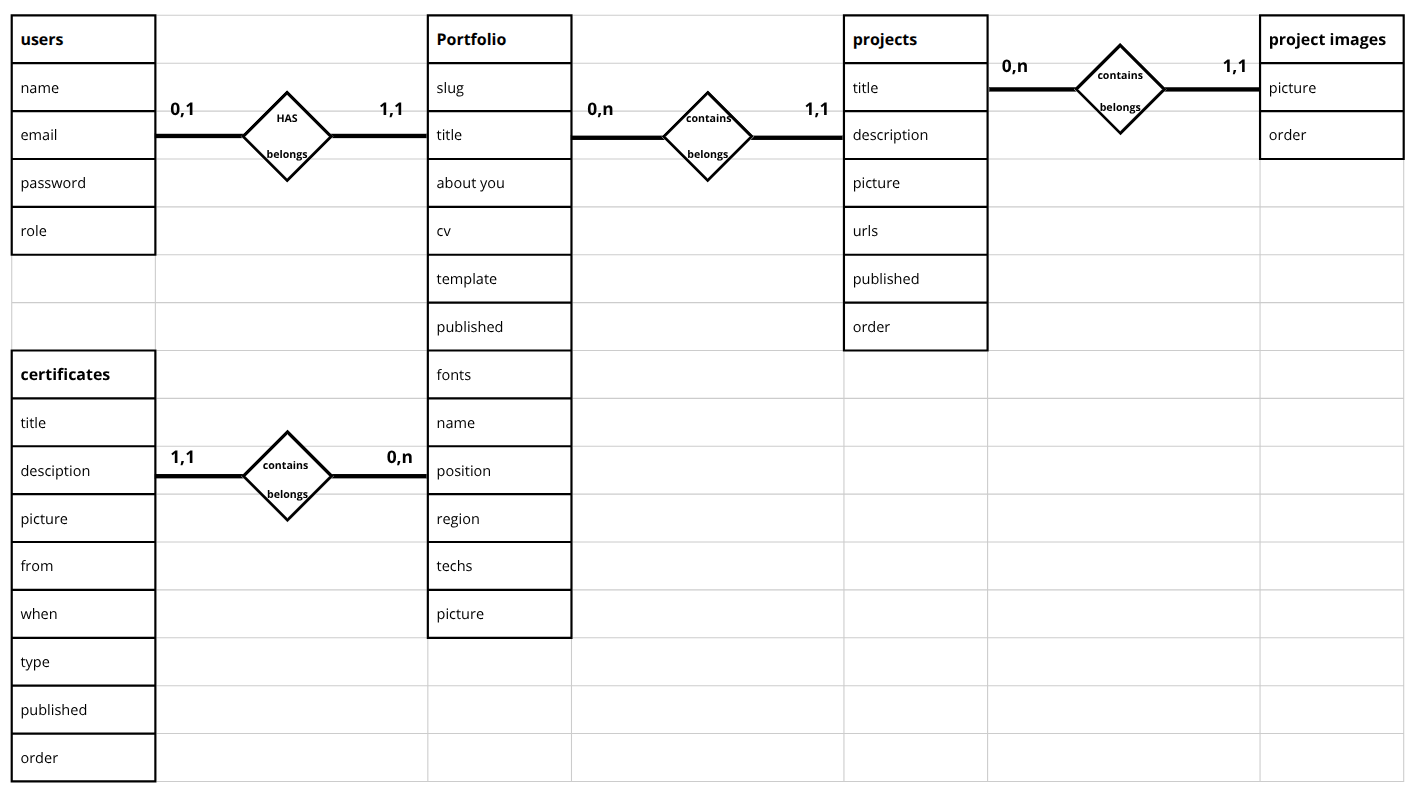
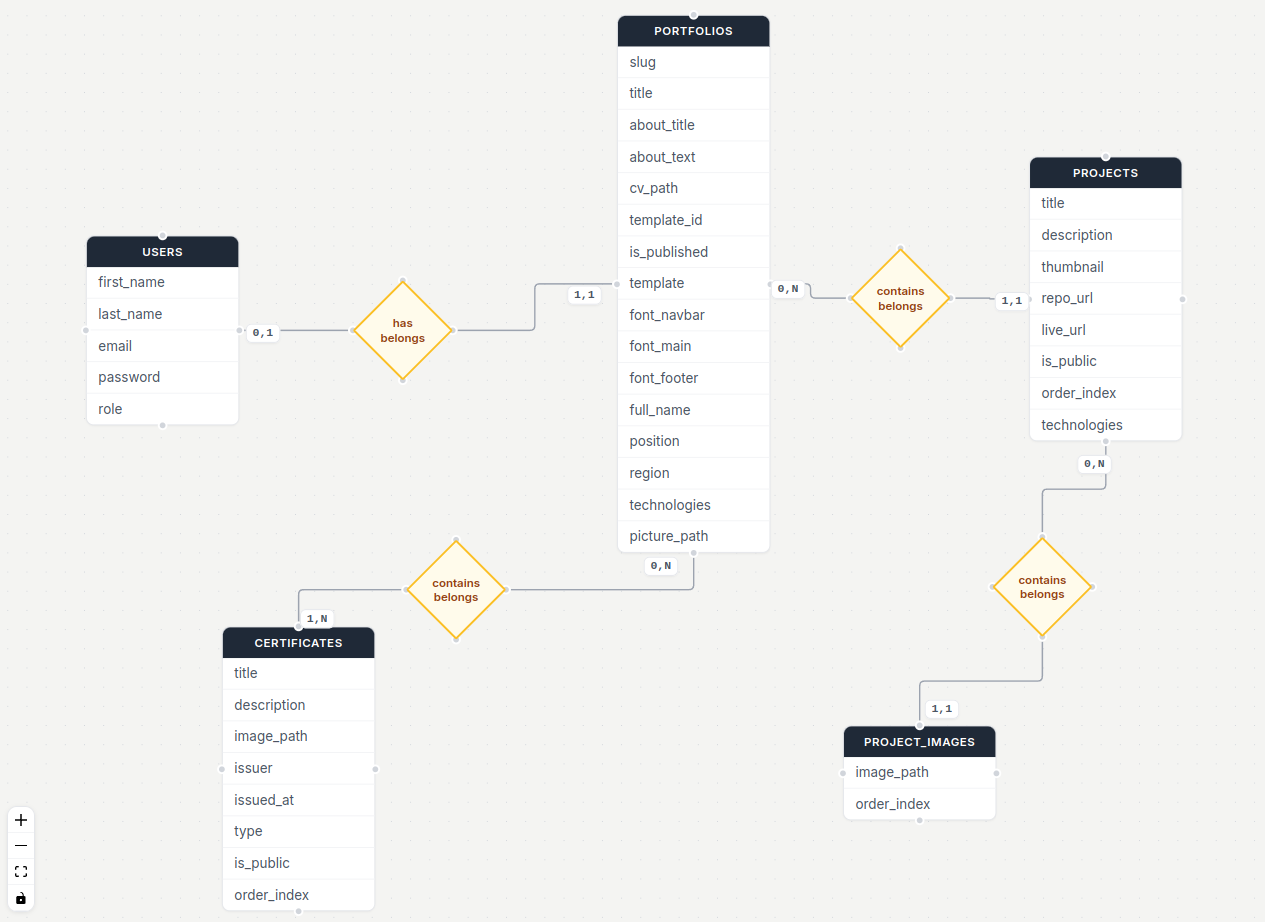
cp 5

diff --git a/src/slides/CP5.3Slide.jsx b/src/slides/CP5.3Slide.jsx
@@ -1,15 +1,35 @@
 import { Slide, Fragment, Code } from '@revealjs/react';
 import { DatabaseZap, FolderOpen } from 'lucide-react';
-import MLD from "../assets/MPD.png"
+import MPD from "../assets/MPD.png"
 
 export default function CP5_3Slide() {
+
+    const notes = `5 tables principales : users, portfolios, projects, project_images, et certificates.
+
+La relation centrale est users → portfolios : un utilisateur peut avoir 1 portfolio. Chaque portfolio contient des projets et des certificats — deux entités indépendantes rattachées au portfolio, pas à l'utilisateur directement.
+
+Les projets ont leur propre galerie via project_images, avec un order_index pour contrôler l'ordre d'affichage manuellement.
+
+Points notables du schéma :
+- Le champ slug dans portfolios permet des URLs propres et personnalisées.
+- Les champs technologies sont stockés en JSON dans projects et portfolios — choix délibéré pour éviter une table de jointure technologies et rester flexible.
+- Les champs font dans portfolios permettent la personnalisation typographique par portfolio.
+- is_published et is_public ont comme valuer 1 ou 0 qui agissent comme booléens — contrôle de visibilité à deux niveaux.
+- Le champ role dans users et type dans certificates utilisent des ENUM — les valeurs sont contraintes côté base.
+- 8 fichiers de migration sequelize `
+
     return (
-        <Slide 
+        <Slide backgroundImage={MPD} backgroundSize="69%" backgroundPosition="center" backgroundRepeat="no-repeat">
             
-            backgroundImage={MLD} backgroundSize="69%" backgroundPosition="center" backgroundRepeat="no-repeat">
+            <div className="flex items-center gap-3 mb-5">
+                <span className="bg-purple-500/20 text-purple-400 border border-purple-400/30 px-3 py-1 rounded-full text-sm font-bold">CP5</span>
+                <p className="text-6xl font-extrabold text-black">MPD</p>
+            </div>
+            <p className='text-sm text-left text-black'>Modèle Physique de Données</p>
             
-            
-            <aside className="notes">8 fichiers de migration pour l'évolution du schéma. Mentionner les foreign keys et les ENUM pour les rôles.</aside>
+            <aside className="notes text-lg">
+                <pre><code>{notes}</code></pre>
+            </aside>
         </Slide>
     );
 }

diff --git a/src/slides/CP5.2Slide.jsx b/src/slides/CP5.2Slide.jsx
@@ -1,6 +1,6 @@
 import { Slide, Fragment, Code } from '@revealjs/react';
 import { DatabaseZap, FolderOpen } from 'lucide-react';
-import MPD from "../assets/MPD.png"
+import MLD from "../assets/MLD.png"
 
 
 export default function CP5_2Slide() {
@@ -20,12 +20,13 @@ Points notables du schéma :
 - 8 fichiers de migration sequelize `
 
     return (
-        <Slide backgroundImage={MPD} backgroundSize="69%" backgroundPosition="center" backgroundRepeat="no-repeat">
+        <Slide backgroundImage={MLD} backgroundSize="69%" backgroundPosition="center" backgroundRepeat="no-repeat">
             
             <div className="flex items-center gap-3 mb-5">
                 <span className="bg-purple-500/20 text-purple-400 border border-purple-400/30 px-3 py-1 rounded-full text-sm font-bold">CP5</span>
-                <h3 className="text-xl font-bold text-white">Base de données relationnelle</h3>
+                <p className="text-6xl font-extrabold text-black">MLD</p>
             </div>
+            <p className='text-sm text-left text-black'>Modèle Logique de Données</p>
             
             <aside className="notes text-lg">
                 <pre><code>{notes}</code></pre>

diff --git a/src/slides/CP5.1Slide.jsx b/src/slides/CP5.1Slide.jsx
@@ -22,11 +22,11 @@ Points notables du schéma :
     return (
         <Slide backgroundImage={MCD} backgroundSize="69%" backgroundPosition="center" backgroundRepeat="no-repeat">
             
-            <div className="flex items-center justify-center gap-3 mb-5">
+            <div className="flex items-center gap-3 mb-5">
                 <span className="bg-purple-500/20 text-purple-400 border border-purple-400/30 px-3 py-1 rounded-full text-sm font-bold">CP5</span>
-                <h3 className="text-xl font-bold text-white">MCD</h3>
+                <p className="text-6xl font-extrabold text-black">MCD</p>
             </div>
-            <p className='text-sm text-black'>Modèle Conceptuel des Données</p>
+            <p className='text-sm text-left text-black'>Modèle Conceptuel des Données</p>
             
             <aside className="notes text-lg">
                 <pre><code>{notes}</code></pre>

diff --git a/src/App.jsx b/src/App.jsx
@@ -22,9 +22,10 @@ import DemoSlide from './slides/DemoSlide';
 import ConclusionSlide from './slides/ConclusionSlide';
 import CP5_1Slide from './slides/CP5.1Slide';
 import Roadmap from './slides/Roadmap';
-import CP5_2Slide from './slides/CP5.3Slide';
+import CP5_2Slide from './slides/CP5.2Slide';
 import CP2_1Slide from './slides/CP2.1Slide';
 import CP2_2Slide from './slides/CP2.2Slide';
+import CP5_3Slide from './slides/CP5.3Slide';
 
 export default function App() {
     return (
@@ -65,6 +66,7 @@ export default function App() {
             <CP5Slide />
             <CP5_1Slide />
             <CP5_2Slide />
+            <CP5_3Slide />
 
             {/* Développer des composants d’accès aux données SQL et NoSQL */}
             <CP6Slide />
